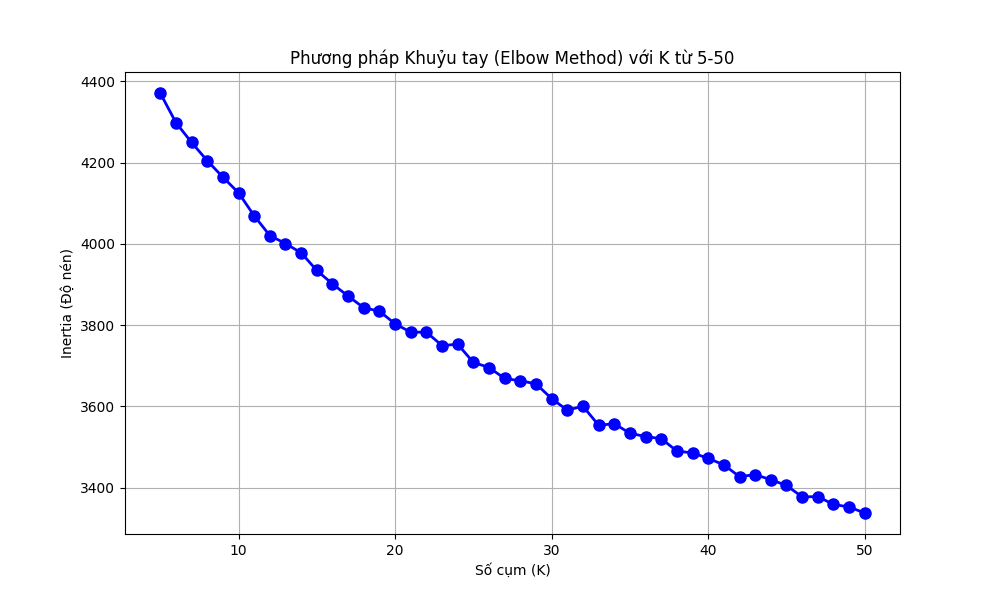
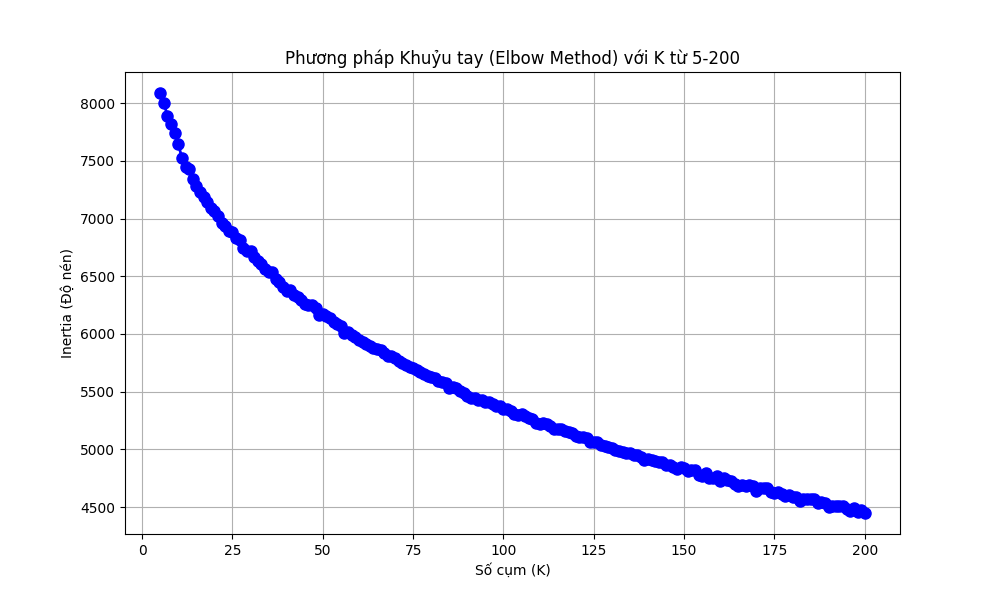
Update project

diff --git a/src/app.py b/src/app.py
@@ -45,23 +45,42 @@ PROCESSED_DIR = os.path.join(BASE_DIR, 'data', 'processed')
 TWO_STAGE_DIR = os.path.join(PROCESSED_DIR, 'two_stage_results')
 ASSETS_DIR = os.path.join(BASE_DIR, 'src', 'assets')
 
-# --- BẢN ĐỒ TÊN CHỦ ĐỀ ---
+# --- BẢN ĐỒ TÊN CHỦ ĐỀ (CẬP NHẬT MỚI NHẤT CHO DATA 9000 BÀI) ---
 TOPIC_NAMES = {
-    1: "Du lịch & Hàng không", 4: "Giáo dục & Đào tạo", 5: "Bóng đá & Thể thao",
-    12: "Bất động sản & Đầu tư", 26: "Chính trị & Công tác cán bộ", 7: "Thị trường Ô tô - Xe máy",
-    23: "Thể thao & Giải đấu (Esports/Tennis)", 30: "Kinh tế & Phát triển Doanh nghiệp",
-    25: "Thiên tai & Bão lũ", 21: "Pháp luật & An ninh trật tự", 14: "Y tế - Điều trị & Ung thư",
-    10: "Đời sống dân sinh & Xã hội", 19: "Chiến sự Nga - Ukraine & Quốc tế", 11: "Văn học & Sách",
-    6: "Công nghệ (Smartphone / Thiết bị số)", 2: "Giải trí & Điện ảnh / Hoa hậu",
-    22: "Tài chính - Ngân hàng / Lãi suất", 16: "Thị trường Vàng & Tài chính",
-    3: "Chính trị Quốc tế (Mỹ - Trung)", 13: "Kiến trúc & Không gian sống",
-    32: "Y tế - Dinh dưỡng & Sức khỏe", 33: "Thời trang & Phong cách",
-    15: "Tài chính Doanh nghiệp (Lợi nhuận)", 24: "Văn hóa & Nghệ thuật",
-    27: "Thi cử & Tuyển sinh", 8: "Chính sách Y tế & Bệnh viện",
-    31: "Thị trường Chứng khoán", 20: "Giao thông & An toàn đường bộ",
-    18: "Đất đai & Pháp lý BĐS", 17: "Ẩm thực & Địa điểm ăn uống",
-    9: "Vụ án & Tội phạm (Ma túy/Lừa đảo)", 29: "Bóng đá Quốc tế & FIFA",
-    0: "Pháp luật (Xét xử/Tham nhũng)", 28: "Đời sống & Xã hội (Chuyện lạ)",
+    29: "Đời sống & Không gian sống",
+    8: "Kinh tế & Phát triển Doanh nghiệp",
+    9: "Pháp luật & Vụ án Hình sự",
+    23: "Bất động sản & Quy hoạch Đô thị",
+    20: "Chính trị & Hành chính công",
+    30: "Thiên tai & Bão lũ (Miền Trung)",
+    11: "Văn học & Sách",
+    18: "Tài chính & Thị trường Chứng khoán",
+    16: "Ẩm thực & Dinh dưỡng Sức khỏe",
+    13: "Ngân hàng & Cảnh báo lừa đảo",
+    17: "Điện ảnh & Nghệ sĩ Showbiz",
+    12: "Bóng đá Việt Nam & AFF Cup",
+    32: "Y tế & Điều trị lâm sàng",
+    33: "Thị trường Ô tô & Xe độ",
+    1: "Hàng không & Quân sự",
+    31: "Bóng đá Quốc tế (Châu Âu)",
+    5: "Giáo dục Phổ thông & Trường học",
+    2: "Giáo dục Đại học & Nghiên cứu AI",
+    7: "Thời sự Quốc tế (Nga - Ukraine)",
+    22: "Âm nhạc & Giải trí",
+    15: "Du lịch & Trải nghiệm",
+    24: "Chính trị Quốc tế (Mỹ - Trung)",
+    4: "Hôn nhân & Gia đình",
+    3: "Thể thao khu vực (SEA Games)",
+    10: "Công nghệ & Thiết bị số (Android/Laptop)",
+    27: "Giáo dục & Tuyển sinh (Thi cử)",
+    14: "Giao thông & An toàn đường bộ",
+    25: "Y tế dự phòng & Dịch bệnh",
+    26: "Thời trang & Phong cách",
+    6: "Công nghệ (Hệ sinh thái Apple)",
+    21: "Xe điện & Xu hướng Xanh (VinFast)",
+    28: "Thị trường Vàng & Ngoại tệ",
+    0: "Sự cố Cháy nổ & Khoa học Vũ trụ",
+    19: "Y tế - Ung thư học"
 }
 
 # --- 1. HÀM NẠP DỮ LIỆU & MODEL ---

diff --git a/src/modeling/two_stage_clustering.py b/src/modeling/two_stage_clustering.py
@@ -13,8 +13,6 @@ MIN_SAMPLES_VALUE = 5
 # 2. Tham số K-Means (để phân cụm dữ liệu sạch)
 # Lưu ý: Vì dữ liệu đã ít đi (do lọc nhiễu), bạn có thể giảm K xuống một chút
 K_VALUE = 34
-
-# --- ĐƯỜNG DẪN ---
 BASE_DIR = os.path.dirname(os.path.dirname(os.path.dirname(os.path.abspath(__file__))))
 PROCESSED_DIR = os.path.join(BASE_DIR, 'data', 'processed')
 MATRIX_PATH = os.path.join(PROCESSED_DIR, 'lsa_matrix.pkl')

diff --git a/src/analysis/label_topics.py b/src/analysis/label_topics.py
@@ -6,9 +6,9 @@ import numpy as np
 
 # --- CẤU HÌNH ---
 # Số lượng bài báo đại diện muốn in ra
-N_REPRESENTATIVES = 1 
+N_REPRESENTATIVES = 4
 # Số lượng từ khóa muốn in ra
-N_KEYWORDS = 15
+N_KEYWORDS = 30
 
 # --- THIẾT LẬP ĐƯỜNG DẪN (Tự động tìm theo vị trí file) ---
 BASE_DIR = os.path.dirname(os.path.dirname(os.path.dirname(os.path.abspath(__file__))))

diff --git a/src/analysis/evaluate.py b/src/analysis/evaluate.py
@@ -9,7 +9,7 @@ import time
 
 #vẽ 2 biểu đồ 
 K_MIN = 5
-K_MAX = 50 
+K_MAX = 200
 STEP = 1
 
 # Thiết lập đường dẫn (đi ngược 3 cấp từ file này ra thư mục gốc)
